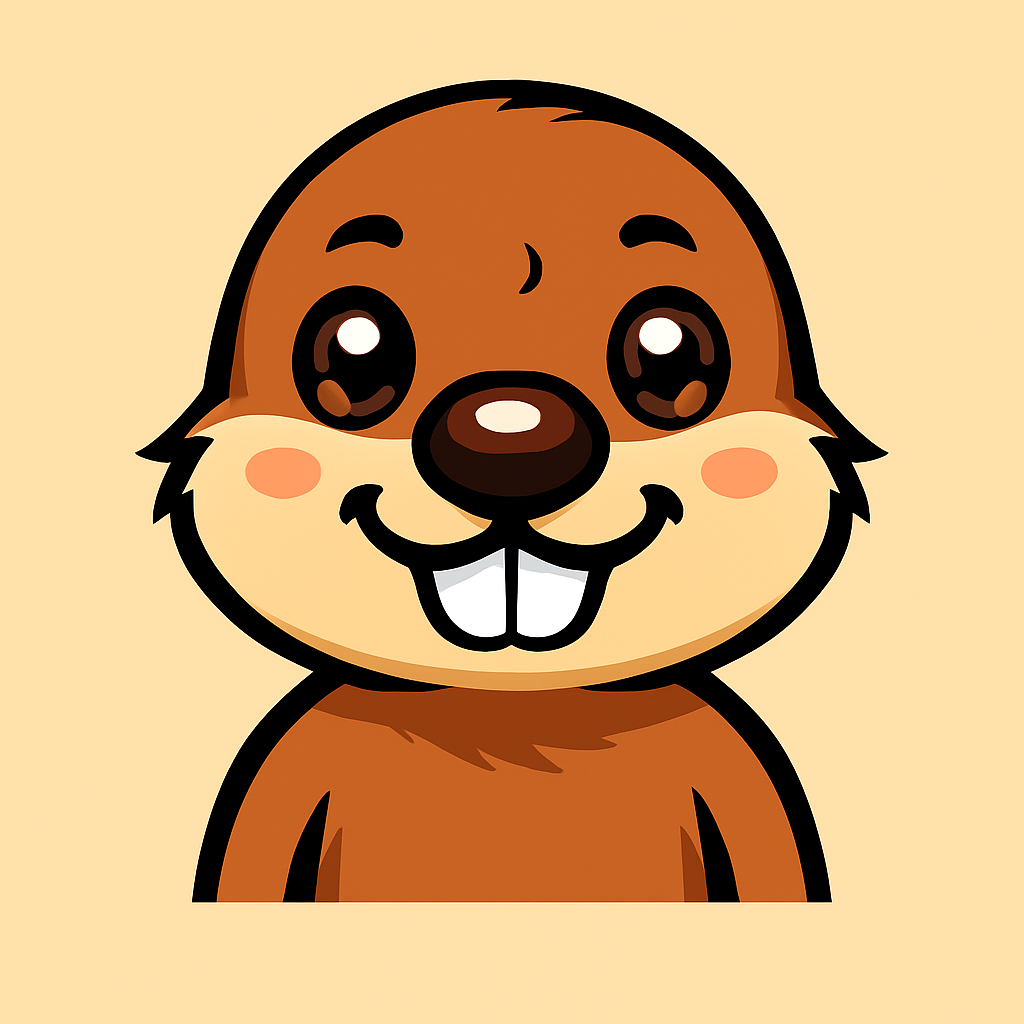
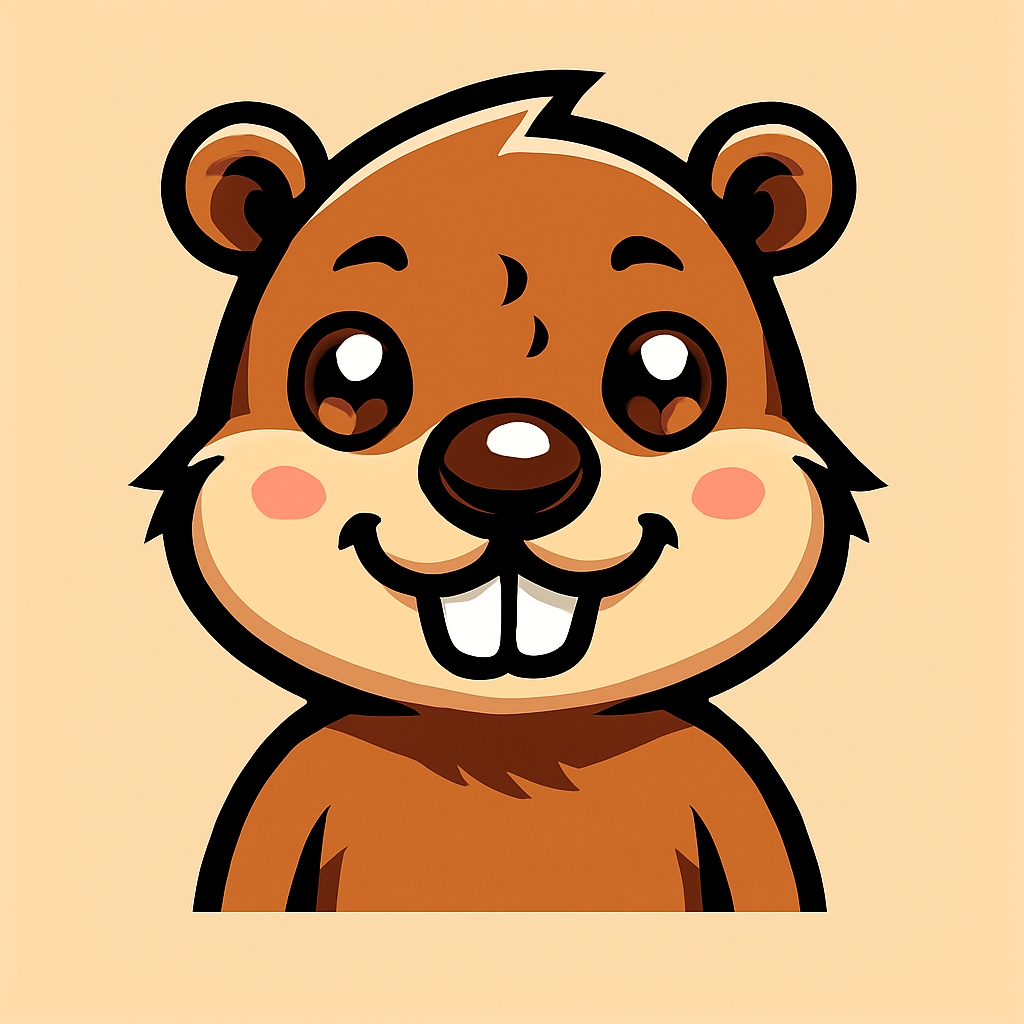
fix: remove fur category, fix earless beaver sprite
- Remove fur category (avoids need for more sprites)
- 4 tabs now: Uniforms, Headgear, Accessories, Special
- Fix combo-hat-none-shirt-none.png (was missing ears)
- Clean up fur equip slot references

Changed region(s): [[0.125, 0.0625, 0.875, 0.9062]]

diff --git a/src/main.js b/src/main.js
@@ -442,12 +442,6 @@ const COSMETICS = [
   {id:'acc-scarf', category:'accessories', name:'Scarf', icon:'🧣', unlock:'clean200', desc:'Clean 200 stalls', tier:4, premium:true},
   {id:'acc-tool-belt', category:'accessories', name:'Tool Belt', icon:'🔧', unlock:'inspect10', desc:'Pass 10 inspections', tier:5, premium:true},
 
-  // === FUR STYLES (5) ===
-  {id:'fur-classic', category:'fur', name:'Classic Brown', icon:'🟤', unlock:'default', tier:0},
-  {id:'fur-golden', category:'fur', name:'Honey Gold', icon:'🟡', unlock:'manager', desc:'Reach Manager rank or buy', tier:3, cost:500},
-  {id:'fur-texas', category:'fur', name:'Texas Orange', icon:'🟠', unlock:'coins500', desc:'Buy for 500 coins', tier:3, cost:500},
-  {id:'fur-midnight', category:'fur', name:'Midnight', icon:'⚫', unlock:'insane6', desc:'Complete Shift 6 on Hard', tier:5, premium:true},
-  {id:'fur-albino', category:'fur', name:'Albino', icon:'⚪', unlock:'streak30', desc:'30-day login streak', tier:5, premium:true},
 ];
 
 // Tier names and rank requirements
@@ -461,25 +455,24 @@ const COSMETIC_TIERS = [
 ];
 
 let cosmeticState = JSON.parse(localStorage.getItem('beaverCosmetics') || 'null') || {
-  unlocked: ['hat-none','hat-cap','shirt-polo','shirt-none','shirt-artios','fur-classic'],
-  equipped: {hat:'hat-cap', shirt:'shirt-polo', special:null},
+  unlocked: ['hat-none','hat-cap','shirt-polo','shirt-none','shirt-artios'],
+  equipped: {hat:'hat-cap', shirt:'shirt-polo', special:null, accessory:null, fur:'fur-classic'},
   lastSeen: Date.now(),
 };
 // Migrate from activeLook format back to multi-equip
 if (cosmeticState.activeLook && !cosmeticState.equipped) {
   const id = cosmeticState.activeLook;
-  cosmeticState.equipped = {hat:'hat-cap', shirt:'shirt-polo', special:null};
+  cosmeticState.equipped = {hat:'hat-cap', shirt:'shirt-polo', special:null, accessory:null, fur:'fur-classic'};
   if (id.startsWith('hat-')) cosmeticState.equipped.hat = id;
   else if (id.startsWith('shirt-')) cosmeticState.equipped.shirt = id;
   else if (id.startsWith('acc-')) cosmeticState.equipped.accessory = id;
-  else if (id.startsWith('fur-')) cosmeticState.equipped.fur = id;
   else if (id.startsWith('special-')) cosmeticState.equipped.special = id;
   delete cosmeticState.activeLook;
 }
 // Ensure equipped has all slots
-if (!cosmeticState.equipped) cosmeticState.equipped = {hat:'hat-cap', shirt:'shirt-polo', special:null};
+if (!cosmeticState.equipped) cosmeticState.equipped = {hat:'hat-cap', shirt:'shirt-polo', special:null, accessory:null, fur:'fur-classic'};
 if (!cosmeticState.equipped.accessory) cosmeticState.equipped.accessory = null;
-if (!cosmeticState.equipped.fur) cosmeticState.equipped.fur = 'fur-classic';
+delete cosmeticState.equipped.fur;
 if (!cosmeticState.equipped.special) cosmeticState.equipped.special = null;
 if (!cosmeticState.lastSeen) cosmeticState.lastSeen = Date.now();
 // Remove old fur/color from unlocked defaults
@@ -6497,6 +6490,14 @@ function updateOutfitterPreview() {
       if (s && s.id !== 'shirt-none') parts.push(s.name);
       if (parts.length === 0) parts.push('Default Look');
     }
+    if (e.accessory) {
+      const a = COSMETICS.find(c => c.id === e.accessory);
+      if (a) parts.push(a.name);
+    }
+    if (e.fur && e.fur !== 'fur-classic') {
+      const f = COSMETICS.find(c => c.id === e.fur);
+      if (f) parts.push(f.name);
+    }
     label.textContent = parts.join(' · ');
   }
 }
@@ -6610,7 +6611,7 @@ function renderOutfitterTab(category) {
     for (const c of tiers[t]) {
       const owned = cosmeticState.unlocked.includes(c.id);
       const e = cosmeticState.equipped;
-      const isActive = e.hat === c.id || e.shirt === c.id || e.special === c.id || e.accessory === c.id || e.fur === c.id;
+      const isActive = e.hat === c.id || e.shirt === c.id || e.special === c.id || e.accessory === c.id;
       const coins = game.coins || parseInt(localStorage.getItem('beaverCoins')) || 0;
       const canBuy = !owned && c.cost && !c.premium && coins >= c.cost;
       const locked = !owned && !canBuy;
@@ -6724,8 +6725,6 @@ function renderOutfitterTab(category) {
       } else if (cosmetic.category === 'accessories') {
         // Toggle accessory — tap again to remove
         cosmeticState.equipped.accessory = cosmeticState.equipped.accessory === id ? null : id;
-      } else if (cosmetic.category === 'fur') {
-        cosmeticState.equipped.fur = id;
       } else if (cosmetic.category === 'special') {
         // Toggle special — tap again to revert to hat+shirt
         cosmeticState.equipped.special = cosmeticState.equipped.special === id ? null : id;

diff --git a/src/styles.css b/src/styles.css
@@ -903,7 +903,20 @@ button,.stall,.sink,#towels,.powerup,.task-btn,.gender-opt,.pick-item,.upgrade-c
 }
 /* Phone breakpoint - extra touch-friendly */
 @media(max-width:420px){
-.title-card{padding:15px 16px 20px;border-width:4px;border-radius:12px;max-width:95%}
+.title-card{padding:10px 14px 10px;border-width:3px;border-radius:12px;max-width:95%}
+.title-hero{margin-bottom:4px}
+.title-hero .title-beaver-img{width:72px;height:72px;margin-bottom:4px}
+.title-hero h1{font-size:1.15em;letter-spacing:1px;line-height:1.05}
+.player-row{gap:8px;margin-bottom:6px}
+.title-beaver-sprite{width:52px;height:52px;border-radius:10px;border-width:2px}
+.rank-row{margin-bottom:3px}
+.rank-row .rank-badge{font-size:0.75em}
+.rank-row .rank-xp{font-size:0.65em}
+.rank-progress-bar{height:7px}
+.restroom-selector{margin-bottom:8px;padding:3px;border-radius:10px}
+.restroom-btn{padding:6px 12px;gap:2px}
+.restroom-btn svg{width:22px;height:22px}
+.restroom-btn span{font-size:0.6em}
 .title-beaver{width:70px;height:70px}
 .title-beaver .beaver-head{width:50px;height:50px}
 .title-beaver .beaver-cap{width:32px;height:14px;top:0px}
@@ -921,10 +934,18 @@ button,.stall,.sink,#towels,.powerup,.task-btn,.gender-opt,.pick-item,.upgrade-c
 .title-beaver .beaver-mouth{top:26px;width:12px;height:5px}
 .title-beaver .beaver-teeth{top:24px;width:9px;height:6px}
 .title-beaver .beaver-cheek{top:17px;width:8px;height:5px}
-#title-screen h1{font-size:1.2em;letter-spacing:1px}
-.title-tagline{font-size:0.75em}
-.btn-play{padding:14px 0;font-size:1.1em}
-.btn-1v1{padding:12px 0;font-size:1em}
+.title-tagline{font-size:0.7em;margin-top:3px}
+.btn-play{padding:10px 0;font-size:1.05em;margin-bottom:5px}
+.btn-1v1{padding:9px 0;font-size:0.95em;margin-bottom:8px}
+.title-dock{gap:6px;margin-bottom:6px}
+.dock-btn{width:34px;height:34px;border-width:2px}
+.dock-btn svg{width:17px;height:17px}
+.dock-item{gap:2px;min-width:38px}
+.dock-label{font-size:0.42em}
+.title-bottom-row{margin-bottom:2px}
+.title-bottom-row .high-score{font-size:0.7em}
+.title-footer{padding-top:4px}
+.title-card::after{top:8px}
 .gender-opt{width:50px;height:54px;font-size:1.6em;min-width:44px;min-height:44px}
 .modal-content{padding:16px 14px;max-width:95%}
 .tutorial-item{font-size:0.85em}

diff --git a/convex/multiplayer.ts b/convex/multiplayer.ts
@@ -7,6 +7,14 @@ function generateCode(): string {
 }
 
 // Create a new multiplayer room
+const cosmeticsValidator = v.optional(v.object({
+  hat: v.optional(v.string()),
+  shirt: v.optional(v.string()),
+  special: v.optional(v.union(v.string(), v.null())),
+  accessory: v.optional(v.union(v.string(), v.null())),
+  fur: v.optional(v.string()),
+}));
+
 export const createRoom = mutation({
   args: {
     hostDeviceId: v.string(),
@@ -14,6 +22,7 @@ export const createRoom = mutation({
     shift: v.number(),
     gender: v.string(),
     difficulty: v.optional(v.string()),
+    hostCosmetics: cosmeticsValidator,
   },
   handler: async (ctx, args) => {
     // Clean up any existing waiting rooms from this host
@@ -51,6 +60,7 @@ export const createRoom = mutation({
       shift: args.shift,
       gender: args.gender,
       difficulty: args.difficulty || "normal",
+      hostCosmetics: args.hostCosmetics,
       hostScore: 0,
       hostRating: 5,
       hostCombo: 0,
@@ -72,6 +82,7 @@ export const joinRoom = mutation({
     code: v.string(),
     guestDeviceId: v.string(),
     guestName: v.string(),
+    guestCosmetics: cosmeticsValidator,
   },
   handler: async (ctx, args) => {
     const room = await ctx.db
@@ -98,6 +109,7 @@ export const joinRoom = mutation({
     await ctx.db.patch(room._id, {
       guestDeviceId: args.guestDeviceId,
       guestName: args.guestName,
+      guestCosmetics: args.guestCosmetics,
     });
 
     return {
@@ -107,6 +119,7 @@ export const joinRoom = mutation({
       shift: room.shift,
       gender: room.gender,
       difficulty: room.difficulty || "normal",
+      hostCosmetics: room.hostCosmetics,
     };
   },
 });

diff --git a/convex/schema.ts b/convex/schema.ts
@@ -73,6 +73,20 @@ export default defineSchema({
     shift: v.number(),             // Which shift to play (0-5)
     gender: v.string(),            // "male" or "female"
     difficulty: v.optional(v.string()), // "easy", "normal", "hard", "insane"
+    hostCosmetics: v.optional(v.object({
+      hat: v.optional(v.string()),
+      shirt: v.optional(v.string()),
+      special: v.optional(v.union(v.string(), v.null())),
+      accessory: v.optional(v.union(v.string(), v.null())),
+      fur: v.optional(v.string()),
+    })),
+    guestCosmetics: v.optional(v.object({
+      hat: v.optional(v.string()),
+      shirt: v.optional(v.string()),
+      special: v.optional(v.union(v.string(), v.null())),
+      accessory: v.optional(v.union(v.string(), v.null())),
+      fur: v.optional(v.string()),
+    })),
     hostScore: v.number(),
     hostRating: v.number(),
     hostCombo: v.number(),

diff --git a/index.html b/index.html
@@ -425,7 +425,6 @@
         <button class="outfitter-tab selected" data-tab="uniforms">👕 Uniforms</button>
         <button class="outfitter-tab" data-tab="headgear">🧢 Headgear</button>
         <button class="outfitter-tab" data-tab="accessories">🕶 Accessories</button>
-        <button class="outfitter-tab" data-tab="fur">🐻 Fur</button>
         <button class="outfitter-tab" data-tab="special">⭐ Special</button>
       </div>
       <div class="outfitter-grid" id="outfitter-grid"></div>
